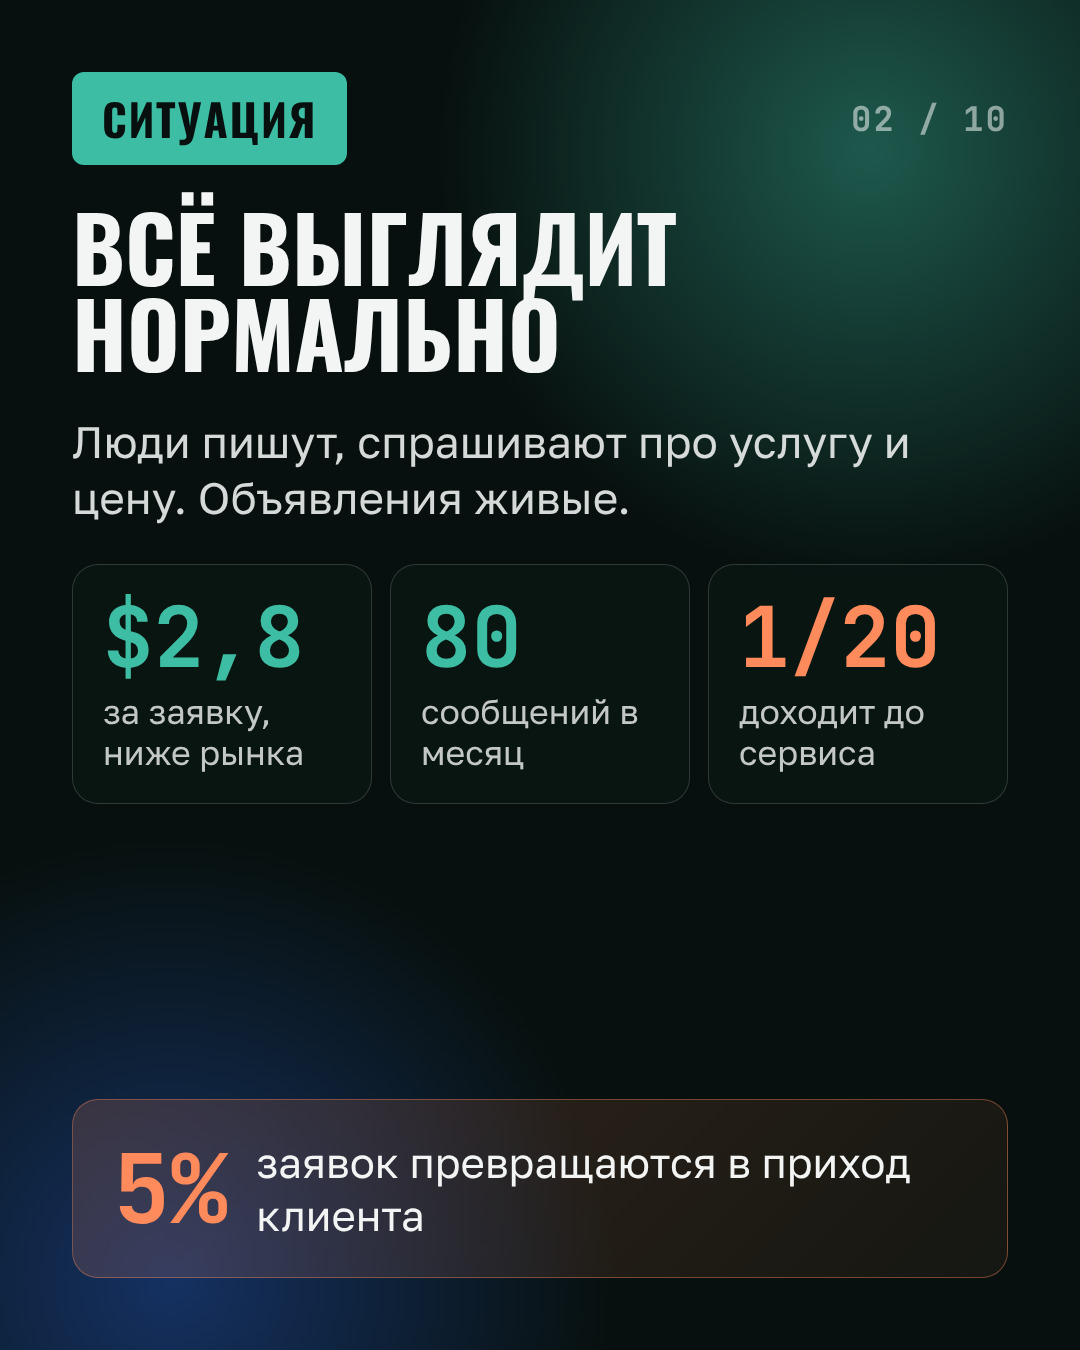
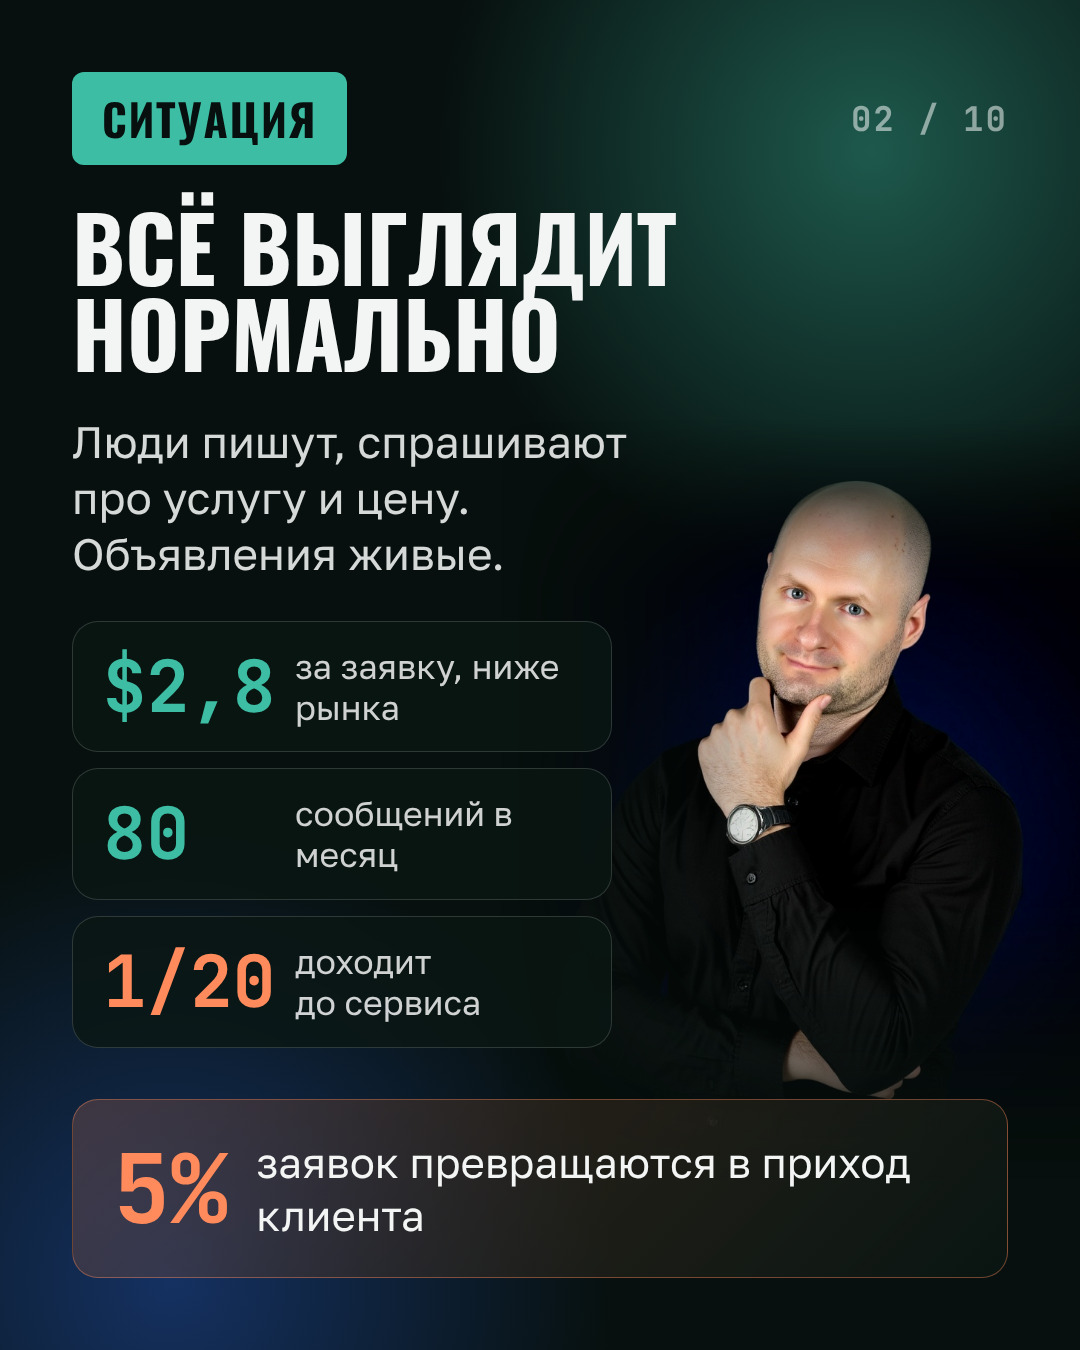
Карусель 02: фото на слайдах 02, 08 и новый финал
Claude-Session: https://claude.ai/code/session_015ZopJ3CHHh4r3eQSk2mJXd

diff --git a/carousels/02-zvonok-vmesto-chata/src/build.py b/carousels/02-zvonok-vmesto-chata/src/build.py
@@ -96,21 +96,23 @@ slides[1] = f"""<!doctype html><html lang="ru"><head><meta charset="utf-8"><styl
  </div>
 </div></body></html>"""
 
-# 02 Ситуация
+# 02 Ситуация, с фото
 def stat(num, txt, color):
-    return f'''<div class="card" style="display:flex;flex-direction:column;gap:12px;padding:30px">
-      <span class="mono" style="font-weight:700;font-size:84px;line-height:1;color:{color}">{num}</span>
-      <span style="font-size:34px;line-height:1.2;color:rgba(243,245,244,.8)">{txt}</span></div>'''
+    return f'''<div class="card" style="display:flex;align-items:center;gap:22px;padding:24px 30px;backdrop-filter:blur(8px)">
+      <span class="mono" style="font-weight:700;font-size:72px;line-height:1;color:{color};min-width:170px">{num}</span>
+      <span style="font-size:34px;line-height:1.2;color:rgba(243,245,244,.85)">{txt}</span></div>'''
+PHOTO2 = f"""
+<img src="img/chin.jpg" alt="" style="position:absolute;right:-60px;top:420px;width:640px;height:760px;object-fit:cover;object-position:50% 18%;filter:saturate(.85) contrast(1.05);-webkit-mask-image:linear-gradient(to right,transparent 0%,#000 45%),linear-gradient(to bottom,transparent 0%,#000 22%,#000 62%,transparent 100%);-webkit-mask-composite:source-in;mask-composite:intersect">"""
 slides[2] = page("dark", f"""{top('Ситуация', 2)}
 <h2>Всё выглядит<br>нормально</h2>
-<p class="body">Люди пишут, спрашивают про услугу и цену. Объявления живые.</p>
-<div style="display:grid;grid-template-columns:repeat(3,minmax(0,1fr));gap:18px">
- {stat('$2,8','за заявку, ниже рынка',TEAL)}{stat('80','сообщений в месяц',TEAL)}{stat('1/20','доходит до сервиса',ORANGE)}
+<p class="body" style="max-width:560px">Люди пишут, спрашивают про услугу и&nbsp;цену. Объявления живые.</p>
+<div style="display:flex;flex-direction:column;gap:16px;width:540px">
+ {stat('$2,8','за заявку, ниже рынка',TEAL)}{stat('80','сообщений в месяц',TEAL)}{stat('1/20','доходит до&nbsp;сервиса',ORANGE)}
 </div>
-<div class="card" style="margin-top:auto;display:flex;gap:28px;align-items:center;background:linear-gradient(135deg,rgba(255,138,91,.18),rgba(255,138,91,.06));border-color:rgba(255,138,91,.4)">
+<div class="card" style="margin-top:auto;display:flex;gap:28px;align-items:center;background:linear-gradient(135deg,rgba(255,138,91,.2),rgba(10,22,19,.92));border-color:rgba(255,138,91,.4)">
  <span class="mono" style="font-weight:700;font-size:96px;line-height:1;color:{ORANGE}">5%</span>
  <span style="font-size:42px;line-height:1.25">заявок превращаются в приход клиента</span>
-</div>""", DARK_GLOWS)
+</div>""", DARK_GLOWS + PHOTO2)
 
 # 03 Воронка до
 def bar(label, num, w, bg, fg="#fff"):
@@ -189,23 +191,28 @@ slides[7] = page("light", f"""{top('После', 7)}
 </div>
 <p class="body" style="margin-top:auto">Ещё <b>4 человека</b> записаны на&nbsp;следующие даты.</p>""", LIGHT_GLOWS)
 
-# 08 Итог
+# 08 Итог, с фото
+GLOWS8 = """
+<div class="glow" style="top:-200px;left:-260px;width:1000px;height:900px;background:radial-gradient(circle,rgba(61,189,163,.32) 0%,rgba(7,16,14,0) 66%)"></div>
+<div class="glow" style="bottom:-380px;left:-280px;width:900px;height:900px;background:radial-gradient(circle,rgba(45,108,246,.36) 0%,rgba(7,16,14,0) 70%)"></div>"""
 def cmp(lab, a, b):
-    return f'''<div style="display:flex;align-items:center;gap:20px;padding:26px 0;border-top:1px solid rgba(243,245,244,.14)">
+    return f'''<div style="display:flex;align-items:center;gap:20px;padding:24px 0;border-top:1px solid rgba(243,245,244,.14)">
       <span style="font-size:38px;color:rgba(243,245,244,.8);flex:1">{lab}</span>
       <span class="mono" style="font-size:46px;color:rgba(243,245,244,.45)">{a}</span><span class="mono" style="font-size:40px;color:rgba(243,245,244,.4)">→</span>
       <span class="mono" style="font-weight:700;font-size:56px;color:{TEAL}">{b}</span></div>'''
+PHOTO8 = f"""
+<img src="img/arms.jpg" alt="" style="position:absolute;right:-40px;top:140px;width:600px;height:700px;object-fit:cover;object-position:50% 20%;filter:saturate(.85) contrast(1.05);-webkit-mask-image:linear-gradient(to right,transparent 0%,#000 48%),linear-gradient(to bottom,transparent 0%,#000 18%,#000 55%,transparent 100%);-webkit-mask-composite:source-in;mask-composite:intersect">"""
 slides[8] = page("dark", f"""{top('Итог', 8)}
 <div style="display:flex;flex-direction:column;gap:8px;margin-top:10px">
  <span class="cap" style="color:{TEAL}">ROMI по чистой прибыли</span>
- <span class="mono" style="font-weight:700;font-size:250px;line-height:1;color:{TEAL};letter-spacing:-.02em">150%</span>
+ <span class="mono" style="font-weight:700;font-size:220px;line-height:1;color:{TEAL};letter-spacing:-.03em;text-shadow:0 10px 40px rgba(7,16,14,.9)">150%</span>
 </div>
-<p class="body">И&nbsp;это до того, как приедут оставшиеся четыре.</p>
+<p class="body" style="max-width:520px;text-shadow:0 2px 20px rgba(7,16,14,.95)">И&nbsp;это до того, как приедут оставшиеся четыре.</p>
 <div style="margin-top:auto;display:flex;flex-direction:column">
  {cmp('Доходимость до прихода', '5%', '24%')}
  {cmp('Цена клиента', '$55', '$37')}
  {cmp('Диалогов у менеджера', '80', '25')}
-</div>""", DARK_GLOWS)
+</div>""", GLOWS8 + PHOTO8)
 
 # 09 Кому поможет
 niches = ["Эвакуатор и техпомощь", "Вскрытие замков", "Ремонт техники на дому", "Замер окон и потолков",
@@ -221,6 +228,33 @@ slides[9] = page("light", f"""{top('Кому подойдёт', 9)}
  <span class="cap" style="color:{ORANGE}">Не подойдёт</span>
  <p style="font-size:34px;line-height:1.26">Интернет-магазину и&nbsp;аудитории до&nbsp;25 лет. Там оставьте чат, но&nbsp;сделайте телефон обязательным полем.</p>
 </div>""", LIGHT_GLOWS)
+
+# 10 Финал, новое фото
+def fact(n, t):
+    return f'''<div style="background:rgba(10,22,19,.75);border:1px solid rgba(243,245,244,.14);border-radius:20px;padding:28px;display:flex;flex-direction:column;gap:10px">
+      <span class="mono" style="font-weight:700;font-size:82px;line-height:1;color:{TEAL}">{n}</span>
+      <span style="font-size:34px;line-height:1.2;color:rgba(243,245,244,.8)">{t}</span></div>'''
+slides[10] = f"""<!doctype html><html lang="ru"><head><meta charset="utf-8"><style>{CSS}</style></head><body>
+<div class="s dark">
+ <div class="glow" style="bottom:-300px;right:-240px;width:960px;height:960px;background:radial-gradient(circle,rgba(61,189,163,.5) 0%,rgba(61,189,163,.15) 40%,rgba(7,16,14,0) 72%)"></div>
+ <div class="glow" style="top:-260px;left:-220px;width:760px;height:760px;background:radial-gradient(circle,rgba(45,108,246,.45) 0%,rgba(7,16,14,0) 70%)"></div>
+ <img src="img/final.jpg" alt="" style="position:absolute;right:58px;top:110px;width:360px;height:360px;border-radius:50%;object-fit:cover;object-position:38% 30%;border:3px solid rgba(61,189,163,.5);box-shadow:0 24px 70px rgba(0,0,0,.6)">
+ <div class="in" style="justify-content:space-between">
+  <div style="display:flex;flex-direction:column;gap:22px;max-width:540px">
+   <span class="cap" style="color:{TEAL};font-weight:500;letter-spacing:.1em">Кто это писал</span>
+   <h2 style="font-size:86px;line-height:.94">Владимир<br>Веселов</h2>
+   <p style="font-size:44px;line-height:1.25;color:rgba(243,245,244,.86)">Разбираю, куда утекает бюджет и&nbsp;почему заявки не&nbsp;превращаются в&nbsp;деньги.</p>
+  </div>
+  <div style="display:grid;grid-template-columns:repeat(3,minmax(0,1fr));gap:18px">{fact('7','лет в перформансе')}{fact('150+','бизнесов через руки')}{fact('9','спецов в команде')}</div>
+  <div style="background:linear-gradient(135deg,rgba(61,189,163,.22),rgba(45,108,246,.18));border:1px solid rgba(243,245,244,.18);border-radius:26px;padding:40px;display:flex;flex-direction:column;gap:26px">
+   <p style="font-size:44px;line-height:1.25">Разберу вашу ситуацию в&nbsp;телеграме. Ссылка в&nbsp;шапке профиля.</p>
+   <div style="display:flex;align-items:center;justify-content:space-between;gap:20px">
+    <span class="mono" style="font-size:36px;color:{TEAL}">vveselov.pro</span>
+    <span style="background:{TEAL};color:#07100E;font-weight:700;font-size:36px;padding:20px 38px;border-radius:12px;white-space:nowrap">@vv_marketing_bot</span>
+   </div>
+  </div>
+ </div>
+</div></body></html>"""
 
 only = [int(a) for a in sys.argv[1:]] or sorted(slides)
 with sync_playwright() as p:
